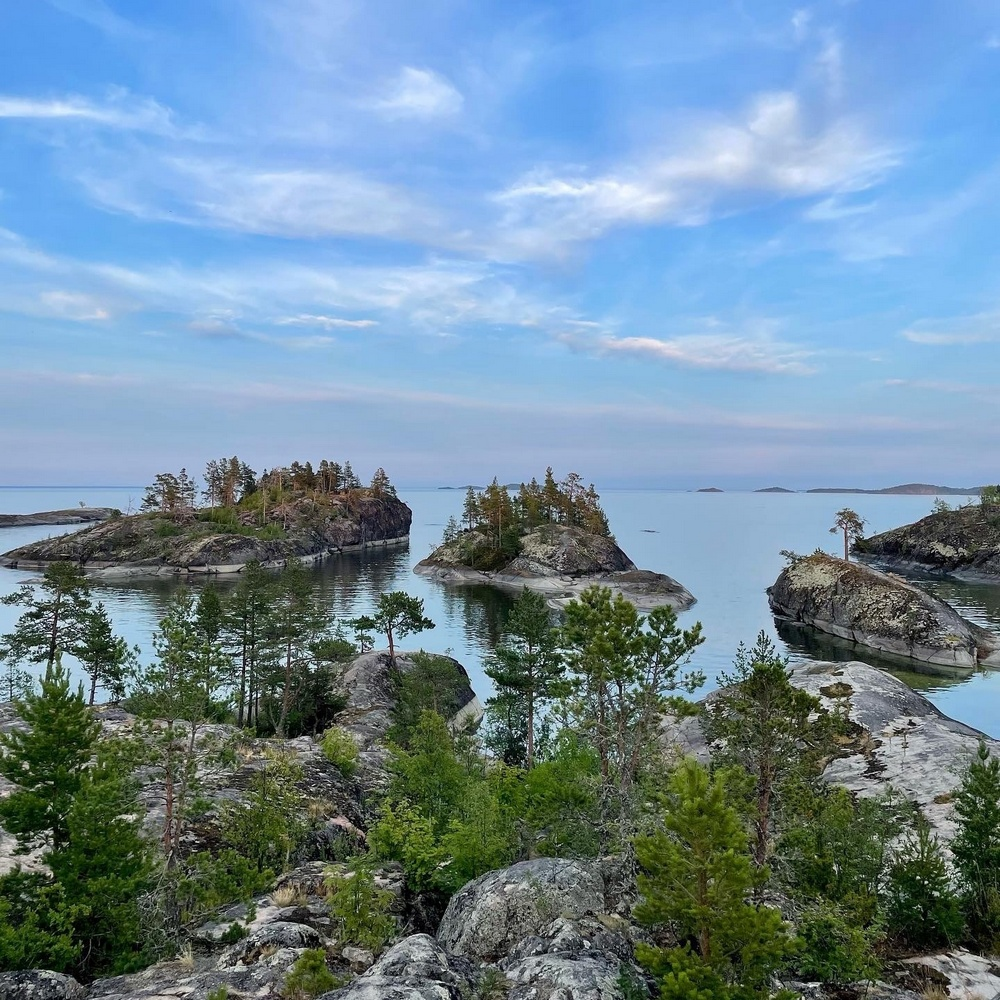
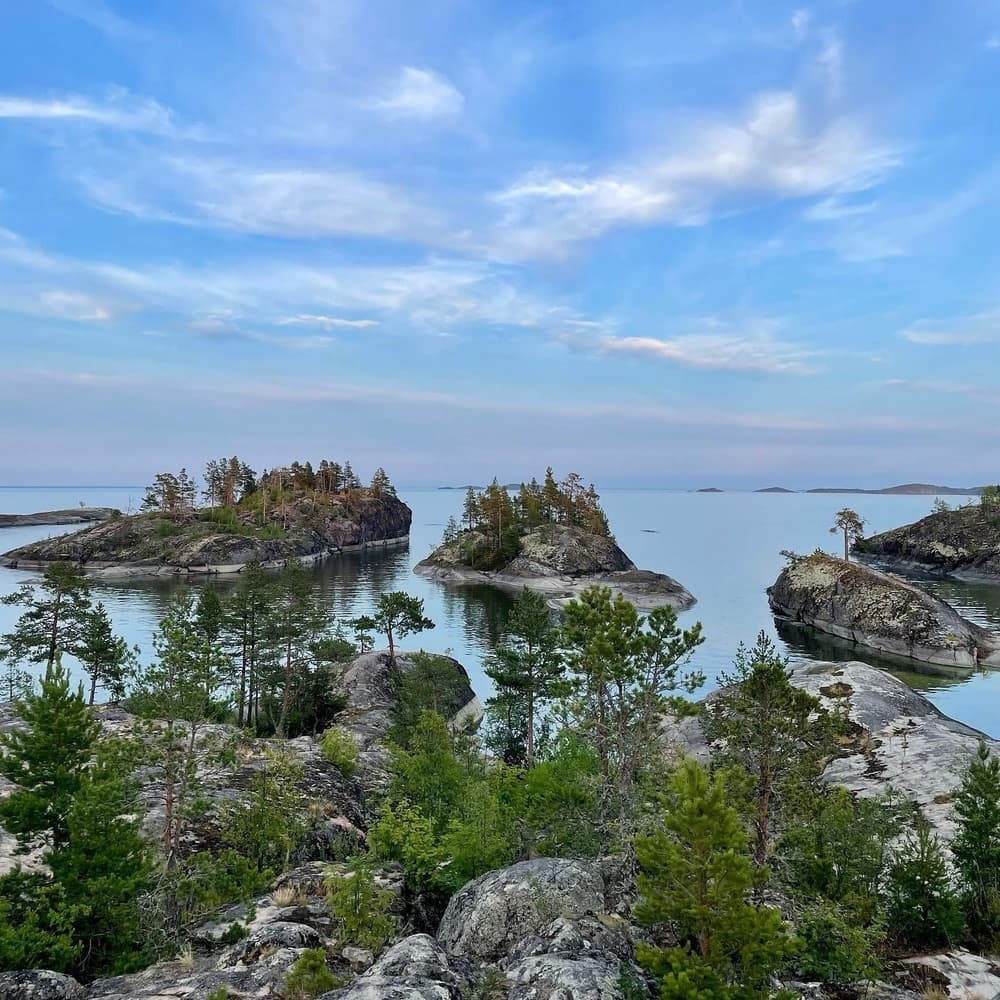
уменьшил вес картинок

diff --git a/04_amazing/kojonsaari/island.html b/04_amazing/kojonsaari/island.html
@@ -42,7 +42,7 @@
          <div class="caption"></div>
 </div>
 
-<p>Мы с другом открыли для себя замечательное место на северо-западной Ладоге. Ладожские шхеры своей красотой соперничают с фьордами Норвегии. Стали посещать его каждое летом, в дальнейшем и другие попутчики подтянулись. </p>
+<p>Мы с другом открыли для себя замечательное место на северо-западной Ладоге. Ладожские шхеры своей красотой соперничают с фьордами Норвегии. Стали посещать его каждым летом, в дальнейшем и другие попутчики подтянулись. </p>
 <p>
 В тот год нас было трое на резиновой лодке.</p>
 <p>
@@ -97,7 +97,7 @@
 Тут старшo&#769;й находит и одевает свои трусы. Бойцы делают то же и колонна возобновляет движение к лесу.
 <p> Мы видим множество полуголых и голых женщин. Они занимаются своими делами: варят суп, жарят–парят, строгают салаты и пр. Нас для них просто нет. Мужчин значительно меньше. Вероятно, "отдыхают".</p>
 <p>На противоположной стороне бухты высокий скалистый остров. По гребню шагает некий гуру: в трусах, сухопарый, высокий, борода развивается как мочалка. Он периодически останавливается направляет руки к Солнцу и излагает тайные знания. Потом пробежит, и вонзив палец в небо изрекает. За ним бежит толстая согбенная тетка в шляпе и все записывает-записывает.<br>
-        Геру все пророчействует и пророчействует. Тетка все записывает и записывает.
+        Гуру все пророчествует и пророчествует. Тетка все записывает и записывает.
 Я думал такие сюжеты бывают только в кино.</p>
 
 <p>Наконец мы покидаем эту бухту и оказываемся в безлюдном месте, и тоже с пляжем.
